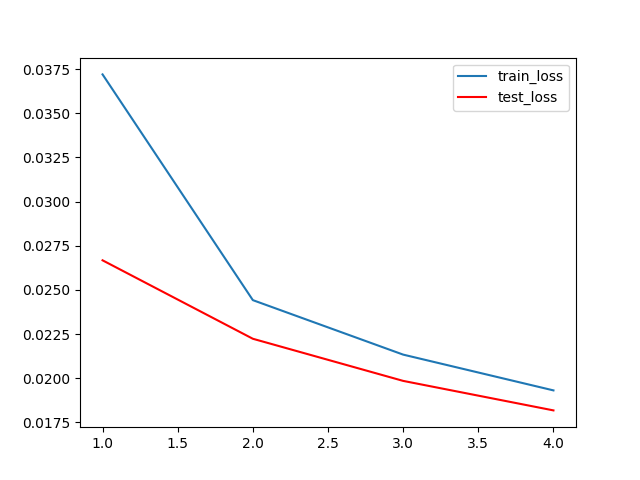
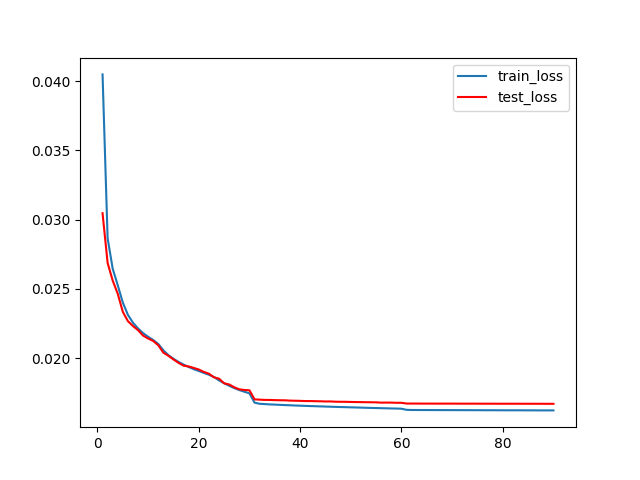
enable stepLR

diff --git a/irmae/train.py b/irmae/train.py
@@ -1,4 +1,4 @@
-import time
+import time, os
 import torch
 from torch.optim.lr_scheduler import StepLR
 import torch.nn.functional as F
@@ -50,7 +50,7 @@ def test(model, data, criterion, device):
 
 if __name__ == '__main__':
     # == Setting ==
-    device = torch.device('cpu')
+    device = torch.device('cuda')
     print('Using', device)
 
     # == Data ==
@@ -59,6 +59,10 @@ if __name__ == '__main__':
     print('Data using: {}'.format(data_name))
     train_data, test_data = get_dataset(data_name,
         data_dir=data_dir)
+
+    # make dirs
+    os.makedirs('results', exist_ok=True)
+    os.makedirs('ckpts', exist_ok=True)
 
     # == Model ==
     model = IRMAE().to(device)
@@ -69,8 +73,8 @@ if __name__ == '__main__':
 
     # == Main Loop ==
     max_acc = 0
-    max_epoch = 5
-#     scheduler = StepLR(optimizer=optimizer, step_size=10)
+    max_epoch = 90
+    scheduler = StepLR(optimizer=optimizer, step_size=30)
 
     # first epoch
     # test(model, test_data, device=device)
@@ -81,7 +85,7 @@ if __name__ == '__main__':
         t = time.time()
         train_loss = train(model, train_data, epoch, criterion, optimizer, device=device)
         test_loss = test(model, test_data, criterion, device=device)
-#         scheduler.step()
+        scheduler.step()
 
         print('train loss:', train_loss, 'test loss:', test_loss)
 
@@ -103,7 +107,7 @@ if __name__ == '__main__':
                 epoch, data_name))
 
             # sample
-            sample = torch.randn(64, 20).to(device)
-            sample = model(sample).cpu()
+            sample = torch.randn(64, 10).to(device)
+            sample = model.decoder(sample).cpu()
             save_image(sample.view(64, 1, 28, 28),
                        'results/sample_e{:02}.png'.format(epoch))

diff --git a/irmae/model.py b/irmae/model.py
@@ -3,7 +3,7 @@ from torch import nn
 import torch.nn.functional as F
 
 class IRMAE(nn.Module):
-    def __init__(self, len_w=2, latent_dim=20):
+    def __init__(self, len_w=2, latent_dim=10):
         super().__init__()
 
         self.encoder = nn.Sequential(
